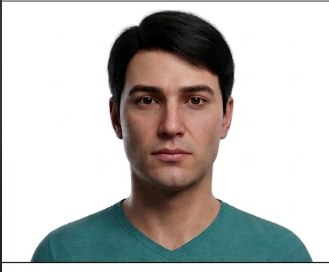
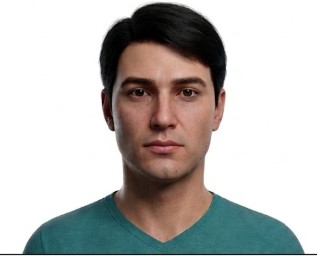
feat(tryon): ajustes de layout del probador segun revision del cliente
- Responsive: se quita el resumen de arriba (material/medidas/genero + colores).
- Captura: ejemplo + recuadro a la izquierda (75%) y la lista de recomendaciones
  a la derecha (25%); se quita "Rostro completo"; encabezado del paso en una sola
  linea (el boton de subir pasa a icono en movil).
- Ficha "Informacion de la montura": Modelo y Color en la cabecera; a la derecha
  de la foto, Material y Genero como icono; el selector de color va sobre la foto;
  se quita "Ver mas fotos"; medidas debajo.
- El boton "Calcular mis medidas" siempre visible (deshabilitado hasta tener las
  dos fotos).
- Fotos de ejemplo re-recortadas (sin la linea negra del borde).
- El logo del pie del probador ahora usa el logo de la app (logo-rubilens).

Claude-Session: https://claude.ai/code/session_012jNjqC2y8VbkoH5FWGKcFx

diff --git a/apps/capri-storefront/src/components/TryOnStudio.jsx b/apps/capri-storefront/src/components/TryOnStudio.jsx
@@ -898,12 +898,15 @@ export default function TryOnStudio({ product, colorIdx = 0, onClose, onAddPresc
         <div className="ts2-step-hd">
           <span className="ts2-step-badge">{num}</span>
           <div className="ts2-step-tt"><b>{title}</b><span>{sub}</span></div>
-          <button type="button" className="ts2-step-up" onClick={() => inputRef.current?.click()}>
+          <button type="button" className="ts2-step-up" onClick={() => inputRef.current?.click()}
+                  title={t(which === "front" ? "tryon2.upFront" : "tryon2.upSide")}
+                  aria-label={t(which === "front" ? "tryon2.upFront" : "tryon2.upSide")}>
             <svg viewBox="0 0 24 24" width="16" height="16" fill="none" stroke="currentColor" strokeWidth="2" strokeLinecap="round" strokeLinejoin="round" aria-hidden="true"><path d="M12 16V4M7 9l5-5 5 5M5 20h14" /></svg>
-            {t(which === "front" ? "tryon2.upFront" : "tryon2.upSide")}
+            <span className="ts2-step-up-tx">{t(which === "front" ? "tryon2.upFront" : "tryon2.upSide")}</span>
           </button>
         </div>
         <div className="ts2-step-body">
+          <div className="ts2-cap-main">
           <figure className="ts2-ex">
             {example}
             <figcaption className="ts2-ex-badge"><IconCheck className="ts2-ex-badge-ic" /> {t("tryon2.example")}</figcaption>
@@ -940,6 +943,7 @@ export default function TryOnStudio({ product, colorIdx = 0, onClose, onAddPresc
                 <small>{t("tryon2.dropHint")}</small>
               </div>
             )}
+          </div>
           </div>
 
           <ul className="ts2-checks">
@@ -1154,7 +1158,6 @@ export default function TryOnStudio({ product, colorIdx = 0, onClose, onAddPresc
                 example: <img className="ts2-ex-img" src={exFront} alt={t("tryon2.example")} loading="lazy" />,
                 checks: [
                   { ic: IC_LIGHT, tx: t("tryon2.chk.light") },
-                  { ic: IC_FACE, tx: t("tryon2.chk.face") },
                   { ic: <IconGlassesUi className="ts2-check-glass" />, tx: t("tryon2.chk.noGlasses") },
                   { ic: <IconCheck className="ts2-check-ok" />, tx: t("tryon2.chk.lookFront") },
                 ],
@@ -1183,8 +1186,26 @@ export default function TryOnStudio({ product, colorIdx = 0, onClose, onAddPresc
               </button>
             </div>
 
+            {/* Modelo + Color, en la cabecera de la ficha */}
+            <div className="ts2-fr-head">
+              <div className="ts2-fr-hspec">
+                <span className="ts2-fr-spec-ic"><IconGlassesUi /></span>
+                <div className="ts2-fr-spec-tx">
+                  <span>{t("fs.model")}</span>
+                  <b>{product.name}{product.brand ? ` (${product.brand})` : ""}</b>
+                </div>
+              </div>
+              <div className="ts2-fr-hspec">
+                <span className="ts2-fr-spec-sw" style={{ background: color?.hex || "#ccc" }} aria-hidden="true" />
+                <div className="ts2-fr-spec-tx">
+                  <span>{t("fs.color")}</span>
+                  <b>{color?.name || na}</b>
+                </div>
+              </div>
+            </div>
+
             <div className="ts2-fr">
-              {/* 75% · foto grande de la montura + medidas justo debajo */}
+              {/* 75% · foto grande con el selector de color encima + medidas debajo */}
               <div className="ts2-fr-main">
                 <div className="fs-photo ts2-fr-photo">
                   {color?.image
@@ -1192,10 +1213,15 @@ export default function TryOnStudio({ product, colorIdx = 0, onClose, onAddPresc
                            alt={`${product.name} ${color?.name || ""}`}
                            onError={(e) => { e.currentTarget.style.opacity = 0.15; }} />
                     : <div className="fs-photo-ph" aria-hidden="true">👓</div>}
-                  <button type="button" className="ts2-morephotos" onClick={onClose}>
-                    <svg viewBox="0 0 24 24" width="15" height="15" fill="none" stroke="currentColor" strokeWidth="2" strokeLinecap="round" strokeLinejoin="round" aria-hidden="true"><path d="M4 8V5a1 1 0 0 1 1-1h3M16 4h3a1 1 0 0 1 1 1v3M20 16v3a1 1 0 0 1-1 1h-3M8 20H5a1 1 0 0 1-1-1v-3" /></svg>
-                    {t("tryon2.morePhotos")}
-                  </button>
+                  {colors.length > 1 && (
+                    <div className="ts2-fr-onphoto" role="listbox" aria-label={product.name}>
+                      {colors.map((c, i) => (
+                        <button key={c.name + i} type="button" role="option" aria-selected={i === ci}
+                                className={`ts2-fr-onsw ${i === ci ? "on" : ""}`} style={{ background: c.hex || "#ccc" }}
+                                title={c.name} aria-label={c.name} onClick={() => setCi(i)} />
+                      ))}
+                    </div>
+                  )}
                 </div>
                 <div className="fs-measures">
                   <div className="fs-mhead">
@@ -1212,22 +1238,8 @@ export default function TryOnStudio({ product, colorIdx = 0, onClose, onAddPresc
                 </div>
               </div>
 
-              {/* 25% · datos con icono: Modelo / Color / Material / Sexo */}
+              {/* 25% · a la derecha de la foto: Material y Género como icono */}
               <div className="ts2-fr-specs">
-                <div className="ts2-fr-spec">
-                  <span className="ts2-fr-spec-ic"><IconGlassesUi /></span>
-                  <div className="ts2-fr-spec-tx">
-                    <span>{t("fs.model")}</span>
-                    <b>{product.name}{product.brand ? ` (${product.brand})` : ""}</b>
-                  </div>
-                </div>
-                <div className="ts2-fr-spec">
-                  <span className="ts2-fr-spec-sw" style={{ background: color?.hex || "#ccc" }} aria-hidden="true" />
-                  <div className="ts2-fr-spec-tx">
-                    <span>{t("fs.color")}</span>
-                    <b>{color?.name || na}</b>
-                  </div>
-                </div>
                 <div className="ts2-fr-spec">
                   <span className="ts2-fr-spec-ic"><IconMaterial /></span>
                   <div className="ts2-fr-spec-tx">
@@ -1242,18 +1254,6 @@ export default function TryOnStudio({ product, colorIdx = 0, onClose, onAddPresc
                     <b>{genderLabel || na}</b>
                   </div>
                 </div>
-                {colors.length > 1 && (
-                  <div className="ts2-fr-colors">
-                    <span className="ts2-fr-colors-k">{t("tryon2.colorsAvailable")}</span>
-                    <div className="fs-swatches" role="listbox" aria-label={product.name}>
-                      {colors.map((c, i) => (
-                        <button key={c.name + i} type="button" role="option" aria-selected={i === ci}
-                                className={`fs-sw ${i === ci ? "on" : ""}`} style={{ background: c.hex || "#ccc" }}
-                                title={c.name} aria-label={c.name} onClick={() => setCi(i)} />
-                      ))}
-                    </div>
-                  </div>
-                )}
               </div>
             </div>
 
@@ -1269,13 +1269,13 @@ export default function TryOnStudio({ product, colorIdx = 0, onClose, onAddPresc
                   {timeStr}
                 </span>
               </div>
-              <img src="/logo.svg" alt="RUBI LENS" className="fs-foot-logo" />
+              <img src="/logo-rubilens.png" alt="RUBI LENS" className="fs-foot-logo" />
             </div>
           </aside>
         </div>
       </div>
 
-      {frontImg && sideImg && mState === "idle" && (
+      {mState === "idle" && (
         <div className="vm-actionbar" ref={actionbarRef}>
           {/* ¿Para quién son los espejuelos? Se puede medir para uno mismo o como
               referencia para un familiar/amigo. Se guarda junto con la medición. */}
@@ -1295,8 +1295,10 @@ export default function TryOnStudio({ product, colorIdx = 0, onClose, onAddPresc
                      placeholder={t("vm.who.otherName")} aria-label={t("vm.who.otherName")} />
             )}
           </div>
-          <span className="vm-actionbar-ok">✓ {t("cap.front")} · {t("cap.side")}</span>
-          <button type="button" className="vm-go" onClick={doMeasure}>📐 {t("vm.calc")}</button>
+          <span className="vm-actionbar-ok">
+            {frontImg && sideImg ? <>✓ {t("cap.front")} · {t("cap.side")}</> : t("tryon2.needBoth")}
+          </span>
+          <button type="button" className="vm-go" onClick={doMeasure} disabled={!frontImg || !sideImg}>📐 {t("vm.calc")}</button>
         </div>
       )}
 

diff --git a/apps/capri-storefront/src/styles/index.css b/apps/capri-storefront/src/styles/index.css
@@ -5569,3 +5569,47 @@ button.card-genre {
   .ts2-fr-main { border-right: none; border-bottom: 1px solid var(--fs-line, #e7eaf0); }
   .ts2-fr-photo.fs-photo { aspect-ratio: 16 / 7; }
 }
+
+/* ===================== ETAPA64 · Probador — ajustes del cliente: resumen fuera en
+   movil, encabezado del paso en una linea, captura 75/25 (ejemplo+recuadro | lista),
+   ficha con Modelo/Color en cabecera, Material/Genero a la derecha, selector de color
+   sobre la foto y sin "Ver mas fotos". ===================== */
+
+/* Captura: ejemplo + recuadro a la IZQUIERDA (75%), lista a la DERECHA (25%) */
+.ts2-step-body { grid-template-columns: 3fr 1fr; align-items: stretch; }
+.ts2-cap-main { display: grid; grid-template-columns: minmax(140px, 0.8fr) 1.5fr; gap: 16px; min-width: 0; }
+.ts2-cap-main .ts2-ex, .ts2-cap-main .ts2-drop { min-height: 210px; }
+
+/* Encabezado del paso: SIEMPRE en una sola linea */
+.ts2-step-hd { flex-wrap: nowrap; }
+.ts2-step-tt { overflow: hidden; }
+.ts2-step-tt b, .ts2-step-tt span { white-space: nowrap; overflow: hidden; text-overflow: ellipsis; }
+
+/* Ficha: cabecera con Modelo + Color */
+.ts2-fr-head { display: flex; flex-wrap: wrap; gap: 10px 28px; padding: 13px 16px; border-bottom: 1px solid var(--fs-line, #e7eaf0); }
+.ts2-fr-hspec { display: flex; align-items: center; gap: 10px; min-width: 0; }
+.ts2-fr-hspec .ts2-fr-spec-ic { width: 34px; height: 34px; border-radius: 10px; background: #eef3fb; color: var(--primary-blue, #01326b); display: flex; align-items: center; justify-content: center; flex: 0 0 auto; }
+.ts2-fr-hspec .ts2-fr-spec-ic > svg { width: 20px; height: 20px; }
+.ts2-fr-hspec .ts2-fr-spec-sw { width: 34px; height: 34px; border-radius: 10px; border: 2px solid #fff; box-shadow: inset 0 0 0 1px #e2e6ee, 0 1px 4px rgba(16,24,40,.15); flex: 0 0 auto; }
+
+/* Selector de color SOBRE la foto */
+.ts2-fr-onphoto { position: absolute; left: 12px; bottom: 12px; display: flex; gap: 8px; z-index: 2; }
+.ts2-fr-onsw { width: 26px; height: 26px; border-radius: 50%; border: 2px solid #fff; box-shadow: 0 1px 5px rgba(15,40,90,.4); cursor: pointer; padding: 0; transition: transform .15s ease; }
+.ts2-fr-onsw:hover { transform: scale(1.1); }
+.ts2-fr-onsw.on { box-shadow: 0 0 0 2px var(--primary-blue, #01326b), 0 1px 5px rgba(15,40,90,.4); }
+
+/* Solo Material + Genero a la derecha; centrados */
+.ts2-fr-specs { justify-content: center; }
+
+/* RESPONSIVE: fuera el resumen de arriba (material/medidas/genero + colores) */
+@media (max-width: 820px) {
+  .ts2 > .ts2-facts, .ts2 > .ts2-colors { display: none; }
+  .ts2-cap-main { grid-template-columns: minmax(120px, 0.85fr) 1.4fr; }
+}
+@media (max-width: 560px) {
+  /* Encabezado en una linea: el boton de subir queda como icono */
+  .ts2-step-up { width: auto; padding: 9px; }
+  .ts2-step-up-tx { display: none; }
+  .ts2-cap-main { grid-template-columns: 1fr; }
+  .ts2-cap-main .ts2-ex { min-height: 0; aspect-ratio: 16 / 9; }
+}

diff --git a/apps/capri-storefront/src/i18n/translations.js b/apps/capri-storefront/src/i18n/translations.js
@@ -588,6 +588,7 @@ export const T = {
     "tryon2.measuresSub": "Calibre · Puente · Varilla",
     "tryon2.preparing": "Preparando tu probador…",
     "tryon2.preparingSub": "Encendiendo la cámara y ajustando la vista",
+    "tryon2.needBoth": "Toma o sube la foto frontal y la lateral",
     "vm.title": "Medidas ópticas (IA)",
     "vm.calc": "Calcular mis medidas",
     "vm.calcing": "Calculando tus medidas con IA…",
@@ -1698,6 +1699,7 @@ export const T = {
     "tryon2.measuresSub": "Eye · Bridge · Temple",
     "tryon2.preparing": "Preparing your try-on…",
     "tryon2.preparingSub": "Turning on the camera and setting up the view",
+    "tryon2.needBoth": "Take or upload the front and side photos",
     "vm.title": "Optical measurements (AI)",
     "vm.calc": "Calculate my measurements",
     "vm.calcing": "Calculating your measurements with AI…",
